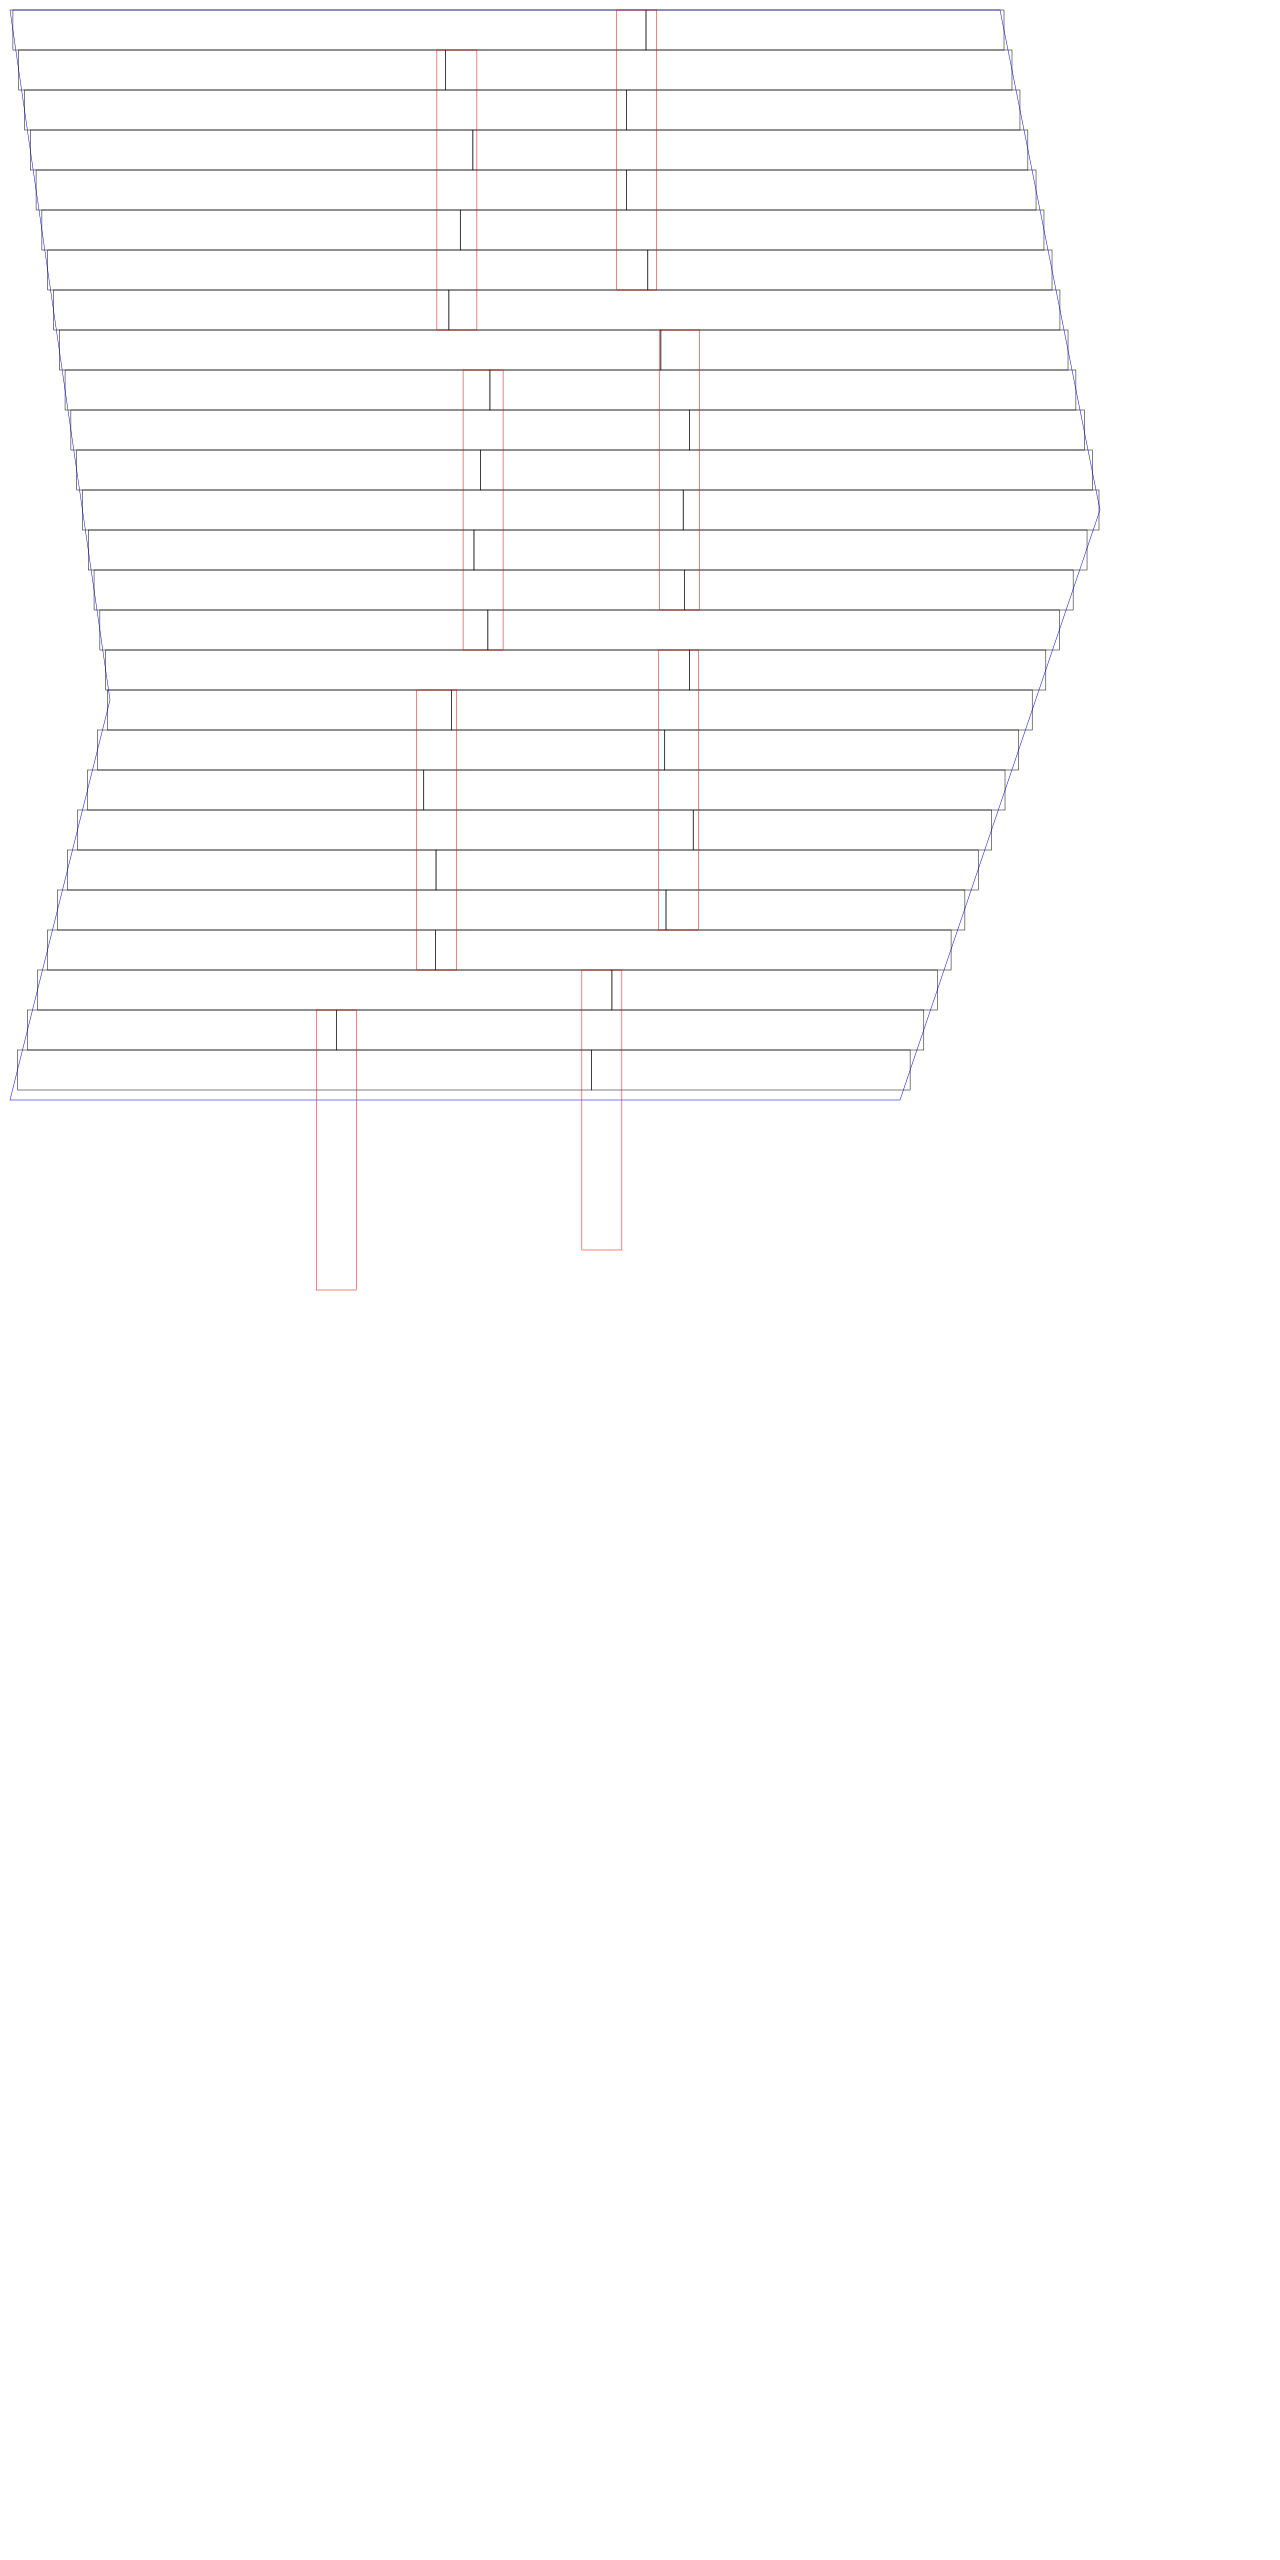
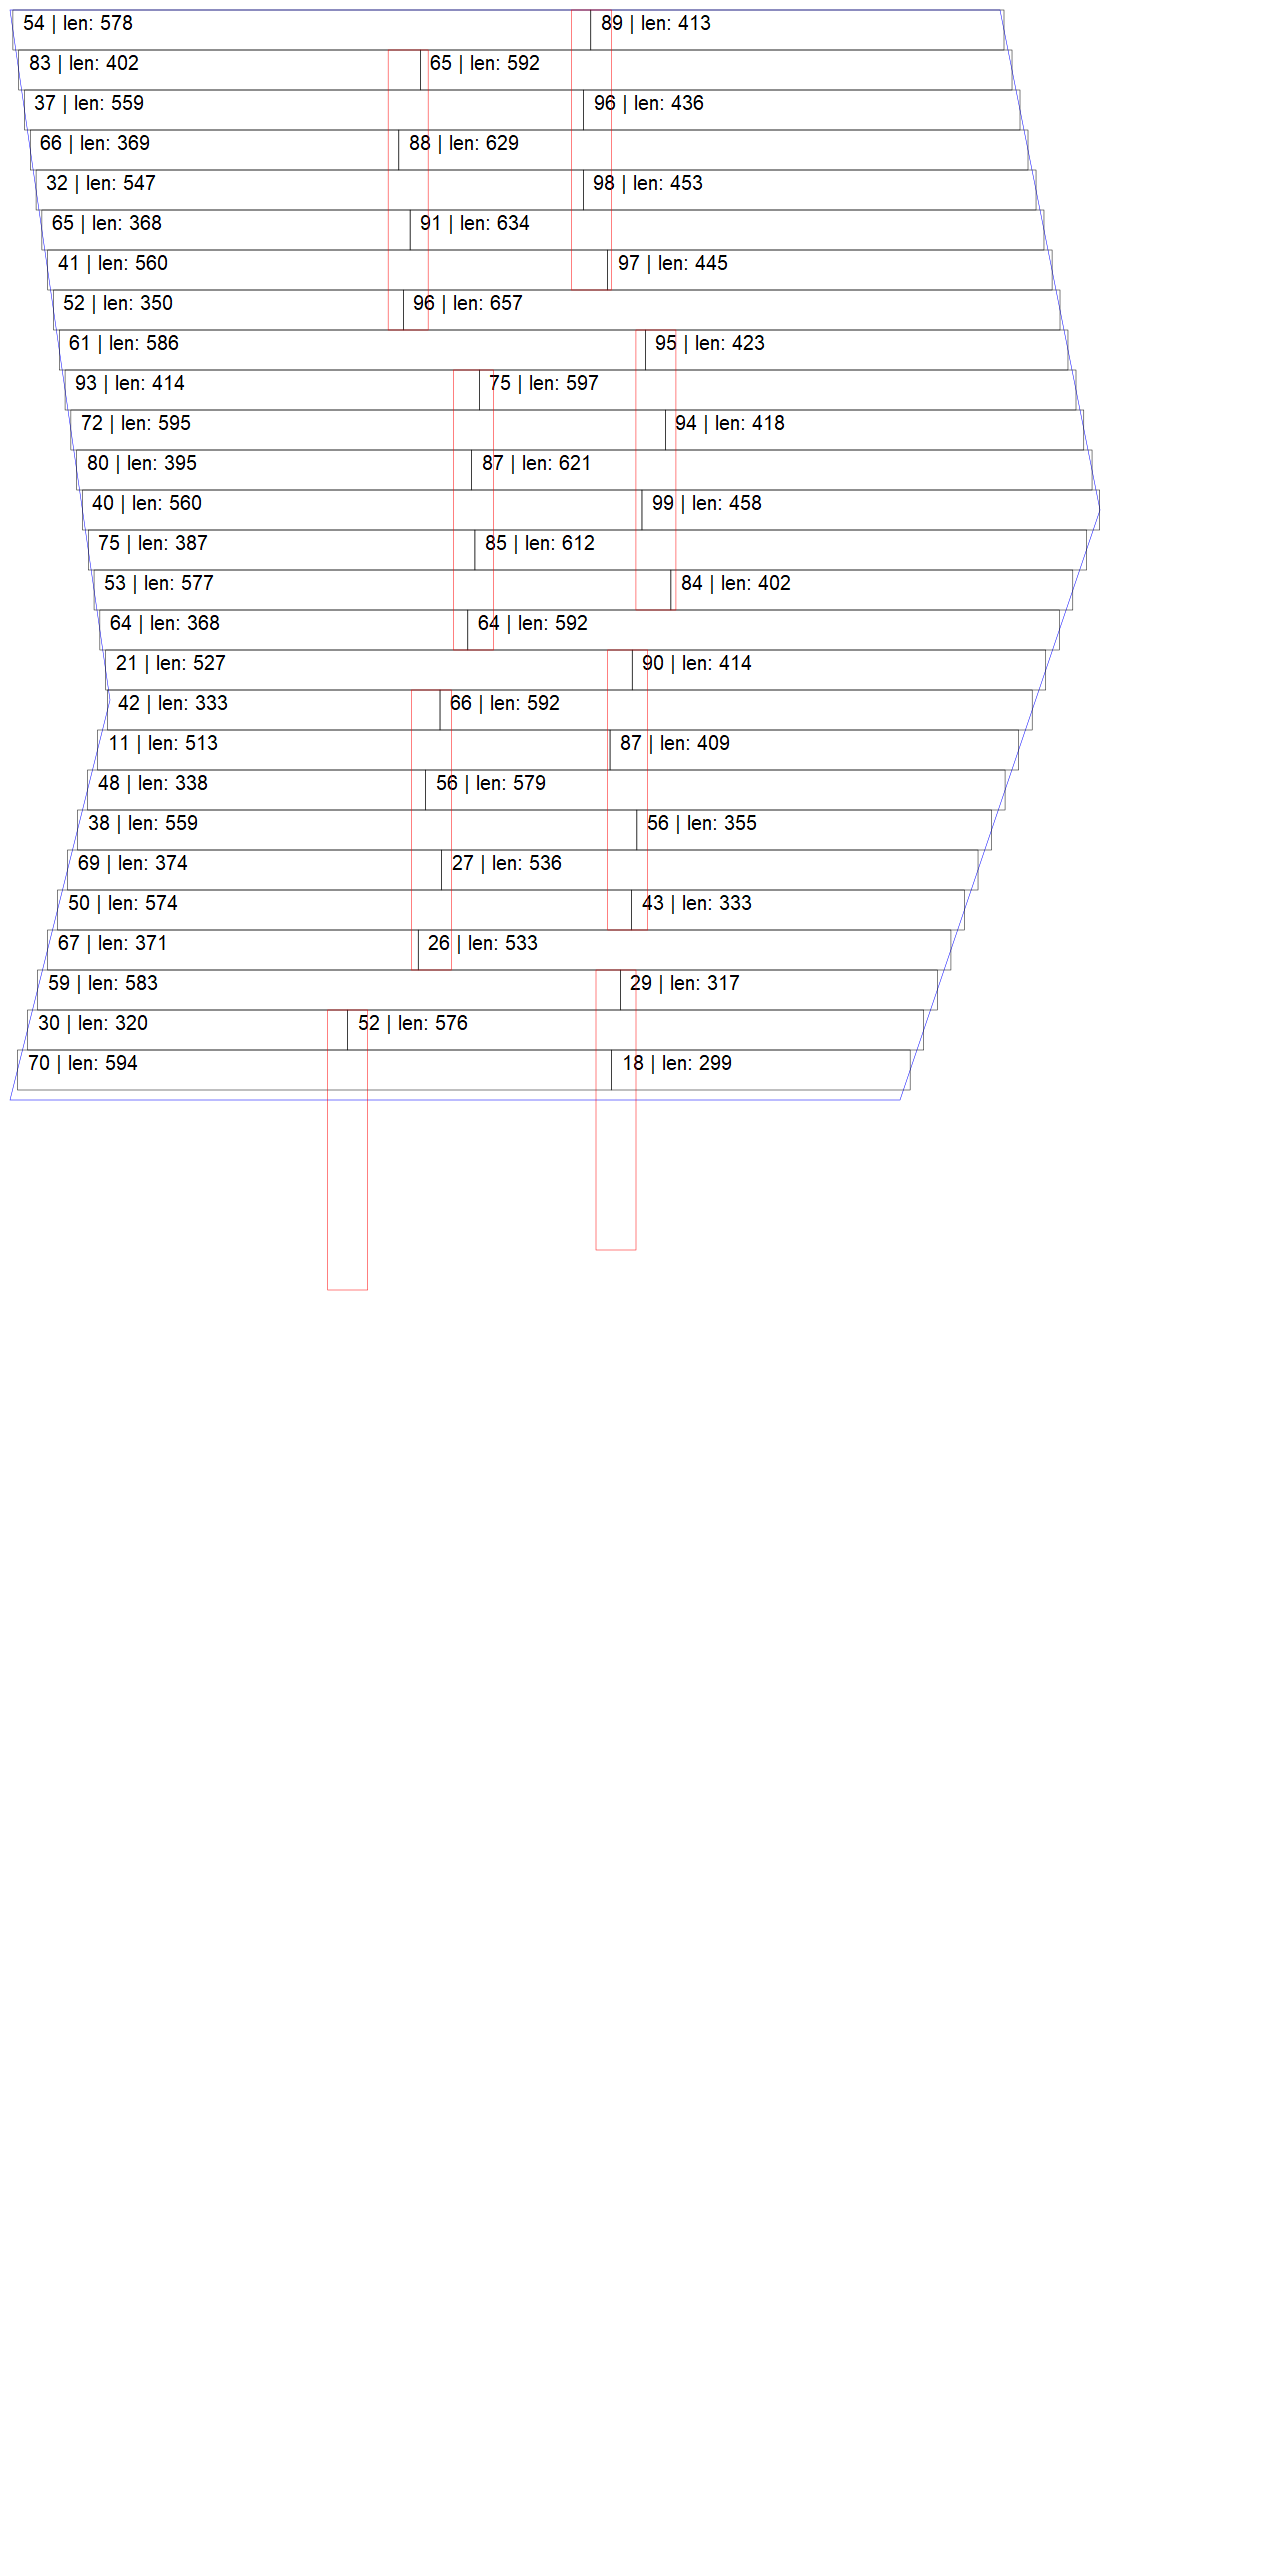
Adds labels on boards

diff --git a/BoardPlacer.py b/BoardPlacer.py
@@ -97,6 +97,8 @@ class BoardPlacer:
     def placeBoardPair(self, closestPair, boardPosIdx):
         self.shortBoards[closestPair['sbIdx']].placed = True
         self.longBoards[closestPair['lbIdx']].placed = True
+        self.shortBoards[closestPair['sbIdx']].index = closestPair['sbIdx']
+        self.longBoards[closestPair['lbIdx']].index = closestPair['lbIdx']
         self.removeBoardsFromCombo(closestPair['sbIdx'], closestPair['lbIdx'])
         self.deck.boardPositions[boardPosIdx]['lbIdx'] = closestPair['lbIdx']
         self.deck.boardPositions[boardPosIdx]['sbIdx'] = closestPair['sbIdx']

diff --git a/Board.py b/Board.py
@@ -1,3 +1,5 @@
+from cairo import FONT_SLANT_NORMAL, FONT_WEIGHT_NORMAL
+
 class Board:
     position = (0, 0)
     width = 0
@@ -18,3 +20,10 @@ class Board:
         ctx.set_source_rgb(0, 0, 0)
         ctx.set_line_width(.5)
         ctx.stroke()
+
+        ctx.set_font_size(0.1)
+        ctx.select_font_face("Arial",
+                             FONT_SLANT_NORMAL,
+                             FONT_WEIGHT_NORMAL)
+        ctx.move_to(self.position[0]+10, self.position[1]+20)
+        ctx.show_text(str(self.index)+" | len: "+str(round(self.width/10))+"\"")
